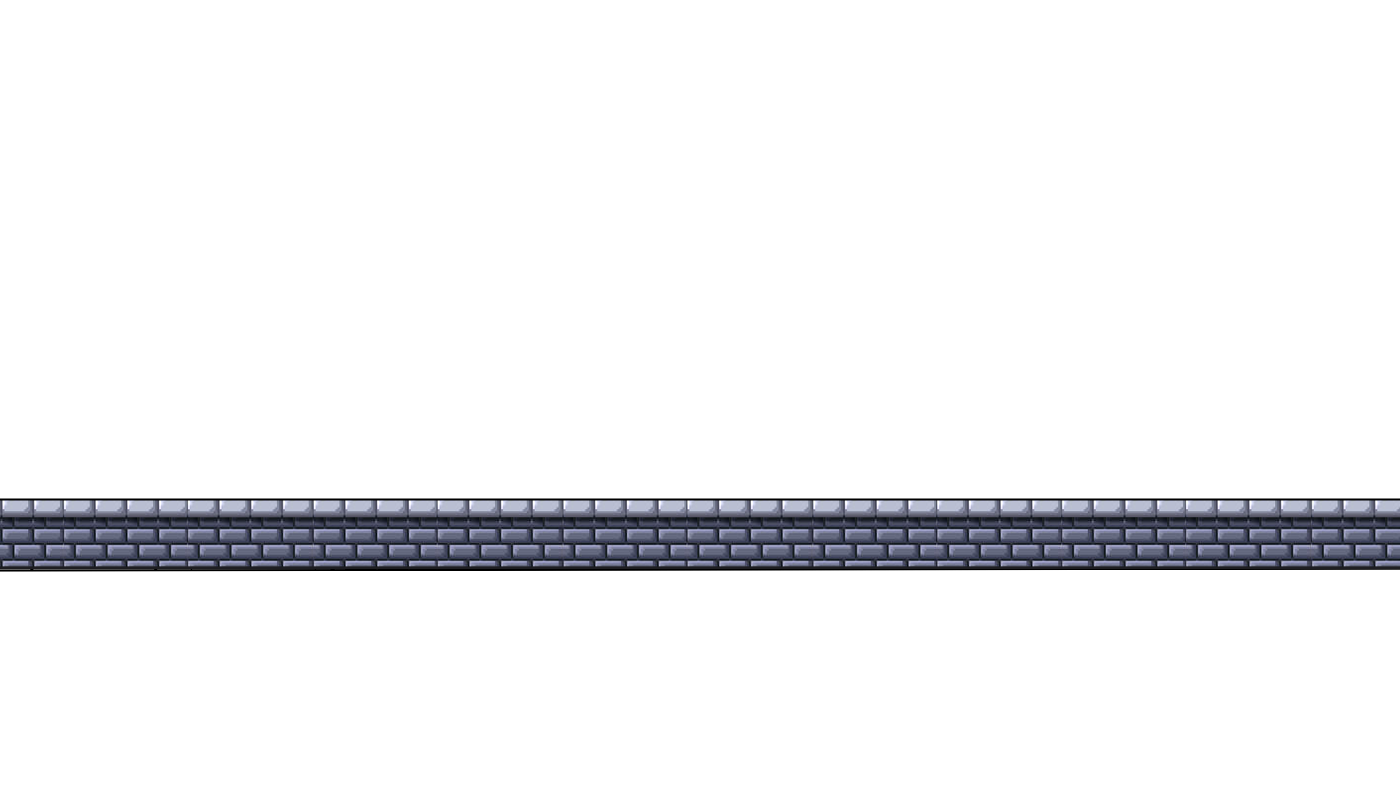
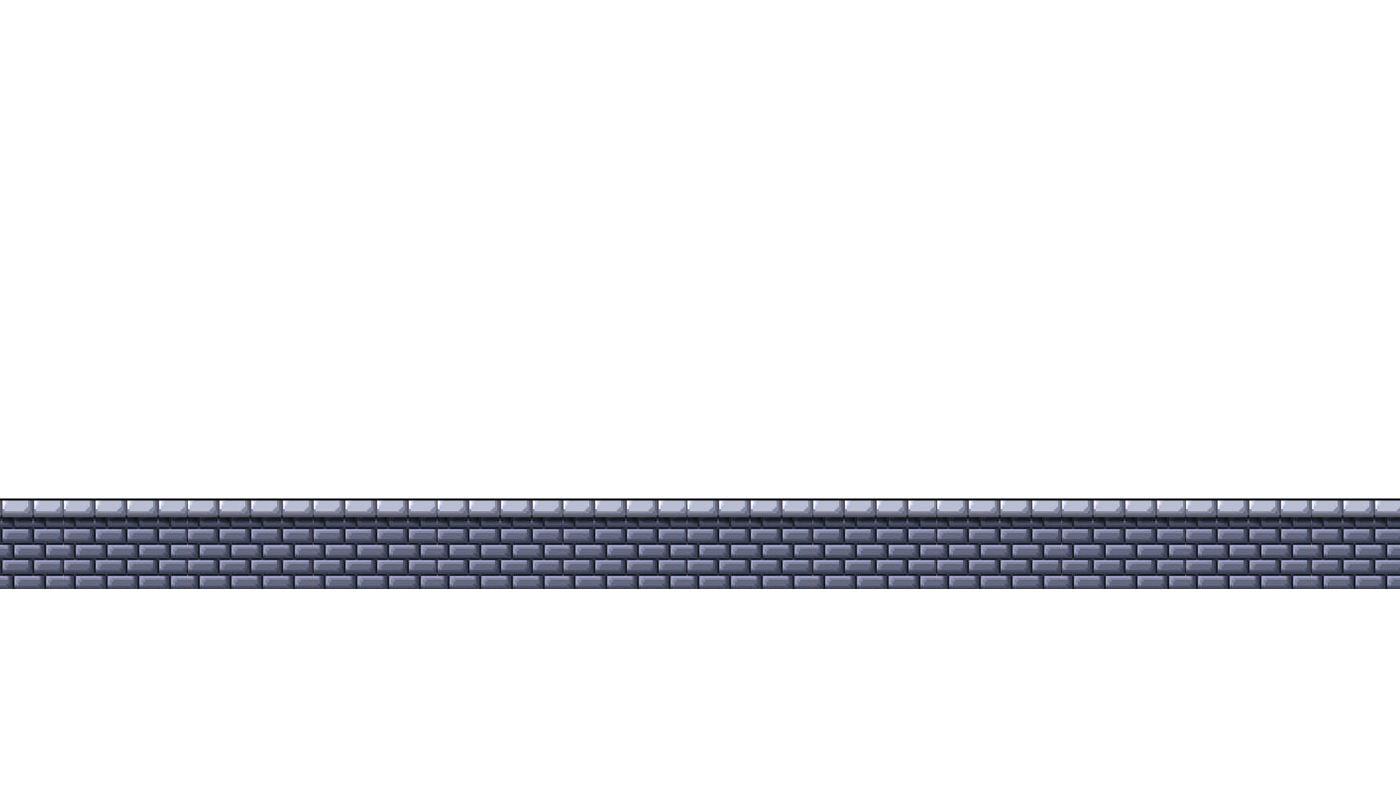
atualizando

Changed region(s): [[0.0, 0.7014, 1.0, 0.7624]]

diff --git a/JS/script.js b/JS/script.js
@@ -199,19 +199,6 @@ class Background{
     }
 }
 
-class Layer{
-    constructor(image){
-        this.image = image;
-        this.width = CANVAS_WIDTH;
-        this.height = CANVAS_HEIGHT;
-        this.x = 0;
-        this.y = 0;
-    }
-    draw(){
-        ctx.drawImage(this.image, this.x, this.y, this.width, this.height);
-    }
-}
-
 class Box{
     constructor(image){
         this.width = 150;
@@ -386,11 +373,11 @@ const input = new InputHandler();
 const background = new Background(backgroundImage, 0.01);
 const tower = new Background(towerImage, 0.4);
 const floor = new Background(floorImage, 1);
-const layer = new Layer(layerImage);
+const layer = new Background(layerImage, 1);
 const box = new Box(boxImage);
 const robot = new Robot(robotImage);
 
-const gameBackground = [background, tower, floor];
+const gameBackground = [background, tower, floor, layer];
 
 
 function start(){
@@ -398,7 +385,6 @@ function start(){
     gameBackground.forEach(object => {
         object.draw();
     });
-    layer.draw();
     box.draw();
     robot.draw(ctx);
     robot.update(input);
@@ -418,7 +404,6 @@ function animate(){
         object.draw();
         object.update();
     });
-    layer.draw();
     box.draw();
     robot.update(input);
     robot.draw(ctx);
